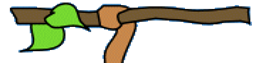
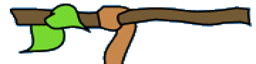
Added tether

diff --git a/core/src/com/doncapo/game/PlayerCharacter.java b/core/src/com/doncapo/game/PlayerCharacter.java
@@ -2,6 +2,7 @@ package com.doncapo.game;
 
 import com.badlogic.gdx.graphics.Texture;
 import com.badlogic.gdx.graphics.g2d.SpriteBatch;
+import com.badlogic.gdx.math.MathUtils;
 import com.badlogic.gdx.math.Rectangle;
 
 /**
@@ -30,17 +31,24 @@ public class PlayerCharacter {
     private final float branchWidth = 256;
     private final float branchHeight = 64;
 
-    public PlayerCharacter(Texture branchTexture, Texture defaultTexture, Texture grabbingTexture, int screenWidth, int screenHeight){
+    private Texture tetherTexture;
+    private Rectangle tetherRectangle;
+    private final float tetherWidth = 256;
+    private final float tetherHeight = 16;
+
+    public PlayerCharacter(Texture branchTexture, Texture defaultTexture, Texture grabbingTexture, Texture tetherTexture, int screenWidth, int screenHeight){
         bucketRestPosition = screenHeight-(2*standardHeight);
         this.lives = starterLives;
         this.branchTexture = branchTexture;
         this.defaultTexture = defaultTexture;
+        this.tetherTexture = tetherTexture;
         this.grabbingTexture = grabbingTexture;
         this.screenHeight = screenHeight;
         this.screenWidth = screenWidth;
 
         createMonkey();
         createMonkeyTail();
+        createTether();
     }
 
     private void createMonkey(){
@@ -57,6 +65,11 @@ public class PlayerCharacter {
         branchRectangle.setY(screenHeight-branchWidth);
     }
 
+    private void createTether(){
+        tetherRectangle = new Rectangle();
+        tetherRectangle.setSize(tetherWidth, tetherHeight);
+    }
+
     public void drawBranch(SpriteBatch batch){
         drawGeneral(batch, branchTexture, branchRectangle);
     }
@@ -69,7 +82,17 @@ public class PlayerCharacter {
         else {
             drawGeneral(batch, defaultTexture, playerRectangle);
         }
+        drawTether(batch);
 
+    }
+
+    private void drawTether(SpriteBatch batch){
+        float segments = (int)(((branchRectangle.getY() - (playerRectangle.getY() + playerRectangle.getHeight()))/tetherRectangle.getHeight()));
+        int segmentsDiscrete = MathUtils.ceil(segments);
+        segmentsDiscrete += 1;
+        for(int i = 0; i< segmentsDiscrete; i++){
+            batch.draw(tetherTexture,(screenWidth/2)-(tetherTexture.getWidth()/2), playerRectangle.getY() + playerRectangle.getHeight() + i*tetherRectangle.getHeight());
+        }
     }
 
     public void grabItem(Item item){

diff --git a/core/src/com/doncapo/game/Theme.java b/core/src/com/doncapo/game/Theme.java
@@ -28,6 +28,8 @@ public class Theme {
     public Texture playerMain;
     private final String playerGrabbingPath = "playerGrabbing.png";
     public Texture playerGrabbing;
+    private final String playerTetherPath = "tetherSegment.png";
+    public Texture playerTether;
 
     private final String itemsFolder = "items";
     private final String goodItemsFolder = "goodItems";
@@ -67,6 +69,7 @@ public class Theme {
         playerTop = new Texture(Gdx.files.internal(folderCombine(currentPlayerFolder, playerTopPath)));
         playerMain = new Texture(Gdx.files.internal(folderCombine(currentPlayerFolder, playerMainPath)));
         playerGrabbing = new Texture(Gdx.files.internal(folderCombine(currentPlayerFolder, playerGrabbingPath)));
+        playerTether = new Texture(Gdx.files.internal(folderCombine(currentPlayerFolder, playerTetherPath)));
 
     }
 

diff --git a/core/src/com/doncapo/game/GameScreen.java b/core/src/com/doncapo/game/GameScreen.java
@@ -42,7 +42,7 @@ public class GameScreen implements Screen {
         theme = new Theme("themes");
         theme.loadRandomTheme();
 
-        playerCharacter = new PlayerCharacter(theme.playerTop, theme.playerMain, theme.playerGrabbing, screenWidth, screenHeight);
+        playerCharacter = new PlayerCharacter(theme.playerTop, theme.playerMain, theme.playerGrabbing, theme.playerTether, screenWidth, screenHeight);
 
         prepareBackground();
 
@@ -81,6 +81,7 @@ public class GameScreen implements Screen {
     }
 
     private void spawnItem(){
+        dropFactor++;
         float yValue = MathUtils.random(512, ((2*screenHeight)/3));
         Item item = getRandomItem(screenWidth, yValue);
         ItemCarrier carrier = getRandomItemCarrier(item);

diff --git a/core/src/com/doncapo/game/ItemCarrier.java b/core/src/com/doncapo/game/ItemCarrier.java
@@ -22,7 +22,7 @@ public class ItemCarrier {
         this.carriedItem = carriedItem;
         float newHeight = carriedItem.getY()-baselineY;
         float newWidth = (newHeight/baselineHeight)*baselineWidth;
-        reduction = newHeight/8;
+        reduction = newHeight/7;
         itemCarrierStat.setSize(newWidth, newHeight-reduction);
         float fruitMidX = carriedItem.getX()+(carriedItem.getWidth()/2);
         itemCarrierStat.setX(fruitMidX- newWidth/2);
